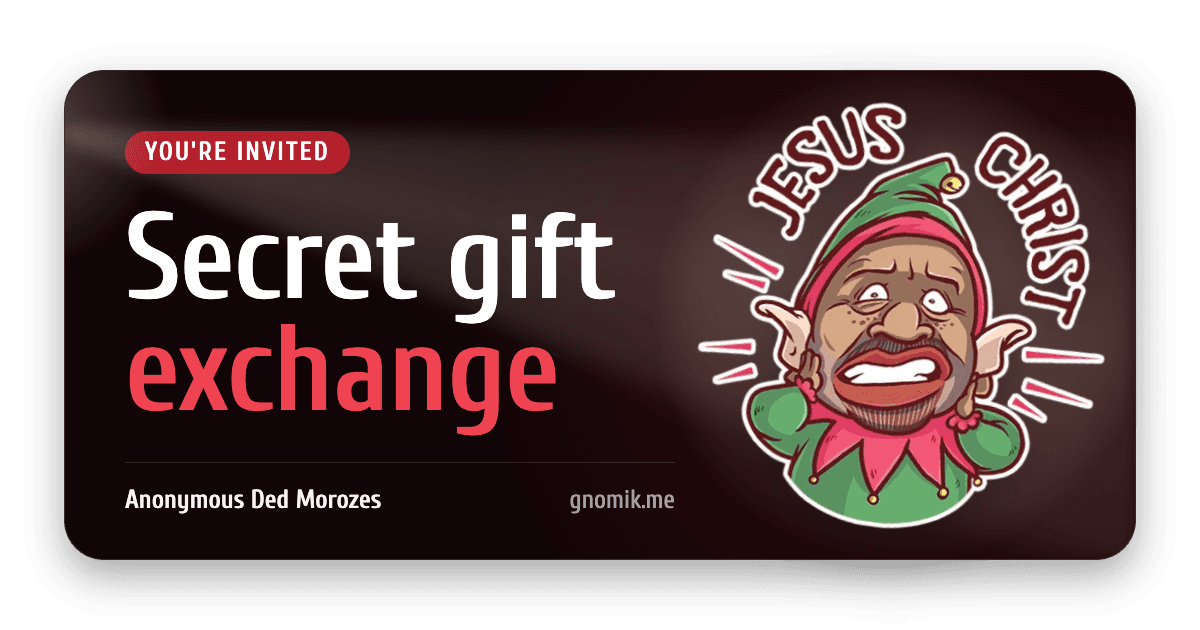
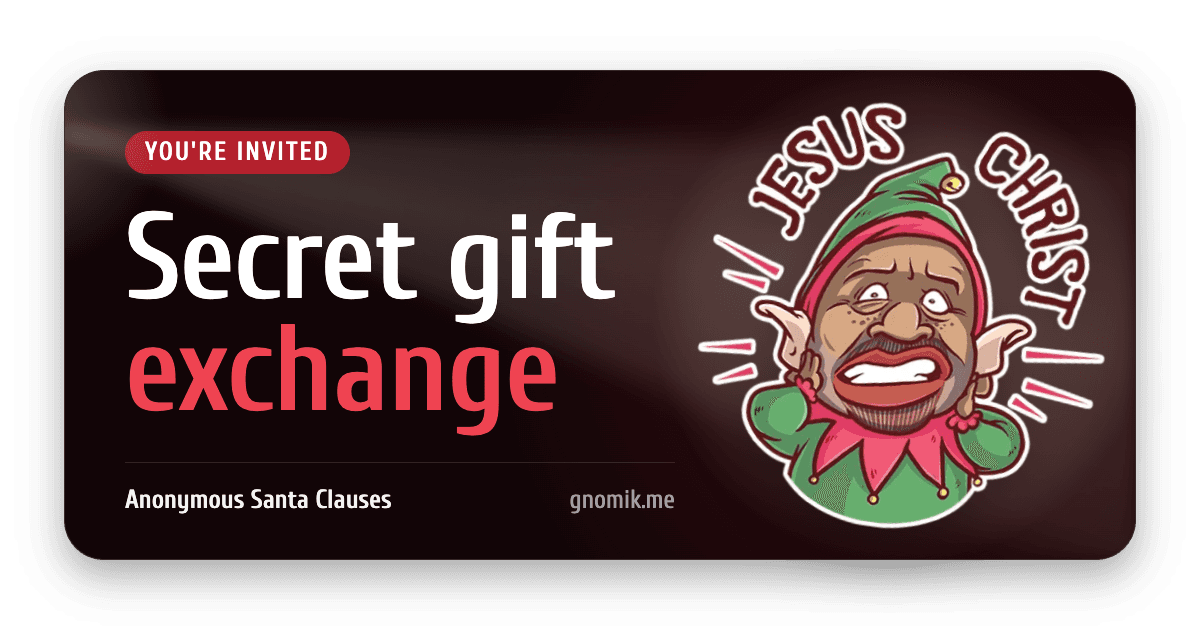
Brand: Anonymous Santa Clauses, and Gnomik is just Gnomik
The site is now Anonymous Santa Clauses: titles, link previews, the start
and landing headings, the link preview image, privacy and terms (with new
effective dates), and the README. One player is an Anonymous Santa Claus.

Gnomik is a name, so no "the": "Ask Gnomik!", "Get me to Gnomik!".

diff --git a/src/components/hoc/RolledDialog.tsx b/src/components/hoc/RolledDialog.tsx
@@ -12,7 +12,7 @@ import { useAppClient } from "@/components/hooks";
  * "The dice are rolled": the message the party's email brings, opened from a reminder on the home screen. It reads
  * like the email itself (who it's from, the subject, the email's postcard pinned on), over a bed of envelopes that
  * fills the page. Its button
- * goes to the party, where the gnome tells whom to give a gift to; the X closes it.
+ * goes to the party, where Gnomik tells whom to give a gift to; the X closes it.
  *
  * `onParty`: opened on the party page itself, the moment the host rolled the dice (PartyDetails), with stars falling.
  * Then closing it, or its button, just shows the party underneath.
@@ -45,7 +45,7 @@ export const RolledDialog = ({ onParty = false }: { onParty?: boolean }) => {
         title="This is it! The message you've been waiting for!"
         noDismiss
         dismissLocation={onParty ? partyPath : "/"}
-        action={<Button variant="primary" pill onClick={() => navigate(partyPath)}>{onParty ? "🦄 Ask the Gnomik!" : "🦄 Get me to the Gnomik!"}</Button>}
+        action={<Button variant="primary" pill onClick={() => navigate(partyPath)}>{onParty ? "🦄 Ask Gnomik!" : "🦄 Get me to Gnomik!"}</Button>}
         size="lg"
       >
         <article className="rolled-mail">
@@ -67,7 +67,7 @@ export const RolledDialog = ({ onParty = false }: { onParty?: boolean }) => {
             <p>We have some wonderful news to share... <strong>It's time!</strong> It's time to make someone happy!</p>
             <p>
               Our elves have just finished their complex calculations{name ? <> for <strong className="wrap-anywhere">{name}</strong></> : null},
-              and now they know your person of interest! Simply follow the link below and ask the gnome for the answer to
+              and now they know your person of interest! Simply follow the link below and ask Gnomik for the answer to
               the most mysterious question of the Universe...
             </p>
           </Content>

diff --git a/src/components/hoc/StartPage.tsx b/src/components/hoc/StartPage.tsx
@@ -24,14 +24,14 @@ export const StartPage = () => {
         <Container>
           {/* On phones: the title on the left, the Grinch on the right, as on wider screens. */}
           <div className="welcome-head-phone mb-8 flex items-center gap-3 px-4 tablet:hidden">
-            <h1 className="flex-1 text-left">Welcome to the Anonymous Ded Morozes!</h1>
+            <h1 className="flex-1 text-left">Welcome to the Anonymous Santa Clauses!</h1>
             <img src={grinchImg.src} alt="Grinch" width={112} height={112} className="shrink-0" />
           </div>
           <Columns vCentered className="max-tablet:hidden">
             <Columns.Column mobile={{ display: "hidden" }}>&nbsp;</Columns.Column>
             <Columns.Column size="one-third" className="tablet:text-right max-tablet:text-center">
               <h1>
-                Welcome to the Anonymous Ded Morozes!
+                Welcome to the Anonymous Santa Clauses!
               </h1>
             </Columns.Column>
             <Columns.Column mobile={{ display: "hidden" }} narrow>

diff --git a/src/components/hoc/PartyIsClosedContent.tsx b/src/components/hoc/PartyIsClosedContent.tsx
@@ -10,14 +10,14 @@ export const PartyIsClosedContent = ({ party, user }: Props) => {
     <>
       <p>
         Hey, {user.name}! This is a new stage of the <strong>{party.name.replace(/!+$/, '')}</strong>!
-        You are officially an Anonymous Ded Moroz! Hooray! &#x1F389;
+        You are officially an Anonymous Santa Claus! Hooray! &#x1F389;
       </p>
       <p>
         {party.participantCount} awesome people are participating in this. Our very special elf finished his
         complex math and you know what? Each of you got one name. This is a person you have to get a gift to.
       </p>
       <p>
-        Just ask the Gnomik, but keep the name a secret: nobody else should know who it is.
+        Just ask Gnomik, but keep the name a secret: nobody else should know who it is.
       </p>
       <p>
         Have fun! And Happy Holidays!

diff --git a/src/site.ts b/src/site.ts
@@ -1,6 +1,6 @@
 /** The site's name, titles and descriptions: what search engines and link previews show. */
 
-export const SITE_NAME = "Anonymous Ded Morozes";
+export const SITE_NAME = "Anonymous Santa Clauses";
 
 /** The home page's title, before " | SITE_NAME": the words people search for. */
 export const HOME_TITLE = "Free Secret Santa Generator";
@@ -23,5 +23,5 @@ export const JEEZ_POPUP =
   "OMG! It's FREE! No GMO! No antibiotics! Zero calories! No cookies! " +
   "Gluten-free, sugar-free, f-f-feelings-free! One hundred percent organic, free-range elves and Gnomik!";
 
-/** "Title | Anonymous Ded Morozes", or the name alone. */
+/** "Title | Anonymous Santa Clauses", or the name alone. */
 export const pageTitle = (title?: string) => [title, SITE_NAME].filter(Boolean).join(" | ");

diff --git a/src/components/hoc/AccountLinks.tsx b/src/components/hoc/AccountLinks.tsx
@@ -151,7 +151,7 @@ export const ConfirmAccountDeletion = () => {
     <LinkPage>
       <h2>Delete your account?</h2>
       <br />
-      <p>This deletes the Anonymous Ded Morozes account for <strong className="text-white">{checked.email}</strong>.</p>
+      <p>This deletes the Anonymous Santa Clauses account for <strong className="text-white">{checked.email}</strong>.</p>
       <p>
         Parties you host that haven't rolled the dice are deleted, and you leave the open parties you joined. In parties
         that already rolled, your Secret Santa keeps the name you joined with, and nothing else about you. This can't be

diff --git a/src/components/GnomeZen.tsx b/src/components/GnomeZen.tsx
@@ -44,7 +44,7 @@ export const GnomeZen = () => {
   });
 
   return (
-    <button type="button" className="gnome-zen" onClick={speak} aria-label="Ask the gnome" title="Ask the gnome">
+    <button type="button" className="gnome-zen" onClick={speak} aria-label="Ask Gnomik" title="Ask Gnomik">
       {line === null
         ? <SyncLoader size={10} />
         // Read out when it changes, like someone speaking.

diff --git a/scripts/og/og-image.html b/scripts/og/og-image.html
@@ -144,7 +144,7 @@
     <div class="card">
       <span class="pill">You're invited</span>
       <h1>Secret gift <span>exchange</span></h1>
-      <div class="site"><b>Anonymous Ded Morozes</b><span>gnomik.me</span></div>
+      <div class="site"><b>Anonymous Santa Clauses</b><span>gnomik.me</span></div>
     </div>
     <img class="elf" src="../../public/elf-2.webp" alt="" />
   </body>

diff --git a/src/pages/how-it-works.md b/src/pages/how-it-works.md
@@ -38,7 +38,7 @@ Gentle warning: pressing it before your friends have joined is how one ends up b
 
 ## 5. Shhh! It's a secret
 
-You'll see **only one name**: the lucky person who will receive your gift. Nobody knows who you got, and nobody will know who got them. You are the Ded Moroz, but an *anonymous* one. Think of yourself as a ninja in a red coat.
+You'll see **only one name**: the lucky person who will receive your gift. Nobody knows who you got, and nobody will know who got them. You are Santa Claus, but an *anonymous* one. Think of yourself as a ninja in a red coat.
 
 Keep the name to yourself. Do not whisper it. Do not hint. Do not "accidentally" buy the exact thing they mentioned last Tuesday. Well, maybe a little.
 
@@ -68,7 +68,7 @@ No. You sign in with your email address and a magic link. Nothing to remember, n
 Of course. Everything happens online: share the party code, and anyone anywhere can join. How the gifts travel is between you and the post office.
 
 **Can the host see who got whom?**
-No. The host is a Ded Moroz like everybody else and sees only their own name. Nobody, host included, can peek at the full list.
+No. The host is a Santa Claus like everybody else and sees only their own name. Nobody, host included, can peek at the full list.
 
 **Can I leave after the dice are rolled?**
 No. Once the dice are rolled, someone is counting on your gift. You can leave any time before that. The host can't leave their own party, but they can delete it before the roll.
@@ -81,4 +81,4 @@ Open *My Profile* and ask to delete it. We'll email you a link to confirm. If yo
 
 > — Houston, we have a gift! I repeat, we have a gift!
 >
-> — Copy that, Ded Moroz. Proceed to eat mandarins.
+> — Copy that, Santa. Proceed to eat mandarins.

diff --git a/README.md b/README.md
@@ -7,9 +7,9 @@
 
 ![grinch](https://github.com/uglyunicorn-eh/santa-barbara/assets/137888/89dacf13-f6f2-49ea-b609-31572e66c4e7)
 
-# Anonymous Ded Morozes
+# Anonymous Santa Clauses
 
-A Secret Santa gift exchange for friends, families and offices (*Ded Moroz* is the Slavic Santa).
+A Secret Santa gift exchange for friends, families and offices.
 Live at **[gnomik.me](https://gnomik.me)**.
 
 ## How it works
@@ -18,7 +18,7 @@ Live at **[gnomik.me](https://gnomik.me)**.
 2. **Host a party** and share its code with friends, or **join** one with the code a friend gave you.
 3. Everyone who joins shows up on the party page. Until the dice are rolled, people can still leave.
 4. **The host rolls the dice.** Everyone gets one name: the person they give a gift to.
-5. Nobody sees anyone else's name, so everyone stays an anonymous Ded Moroz.
+5. Nobody sees anyone else's name, so everyone stays an anonymous Santa Claus.
 
 No marketing emails, and no sharing your data with anyone.
 

diff --git a/src/pages/terms.md b/src/pages/terms.md
@@ -2,15 +2,15 @@
 layout: "@/layouts/KnowledgePageLayout.astro"
 title: "Terms and Conditions"
 image: "/terms.png"
-description: "The rules of the game: how accounts, parties and deleting things work on Anonymous Ded Morozes."
+description: "The rules of the game: how accounts, parties and deleting things work on Anonymous Santa Clauses."
 ---
 
 # Terms and Conditions
 
-*Effective date: October 24, 2026*
+*Effective date: October 28, 2026*
 
 Please read these Terms and Conditions ("Terms") carefully before using [gnomik.me](https://gnomik.me) (the "Service"),
-operated by **Anonymous Ded Morozes**, a project of Ugly Unicorn ("us", "we", or "our").
+operated by **Anonymous Santa Clauses**, a project of Ugly Unicorn ("us", "we", or "our").
 
 By accessing or using the Service you agree to be bound by these Terms. If you disagree with any part of them, you may
 not use the Service.

diff --git a/src/pages/privacy.md b/src/pages/privacy.md
@@ -7,9 +7,9 @@ description: "What we collect, who sees it, and how to delete it. Short version:
 
 # Privacy Policy
 
-*Effective date: October 26, 2026*
+*Effective date: October 28, 2026*
 
-**Anonymous Ded Morozes**, a project of Ugly Unicorn ("us", "we", or "our"), operates [gnomik.me](https://gnomik.me)
+**Anonymous Santa Clauses**, a project of Ugly Unicorn ("us", "we", or "our"), operates [gnomik.me](https://gnomik.me)
 (the "Service"). This page explains what personal data we collect, how we use it, and the choices you have. Terms not
 defined here have the meaning given in our [Terms and Conditions](/terms).
 
